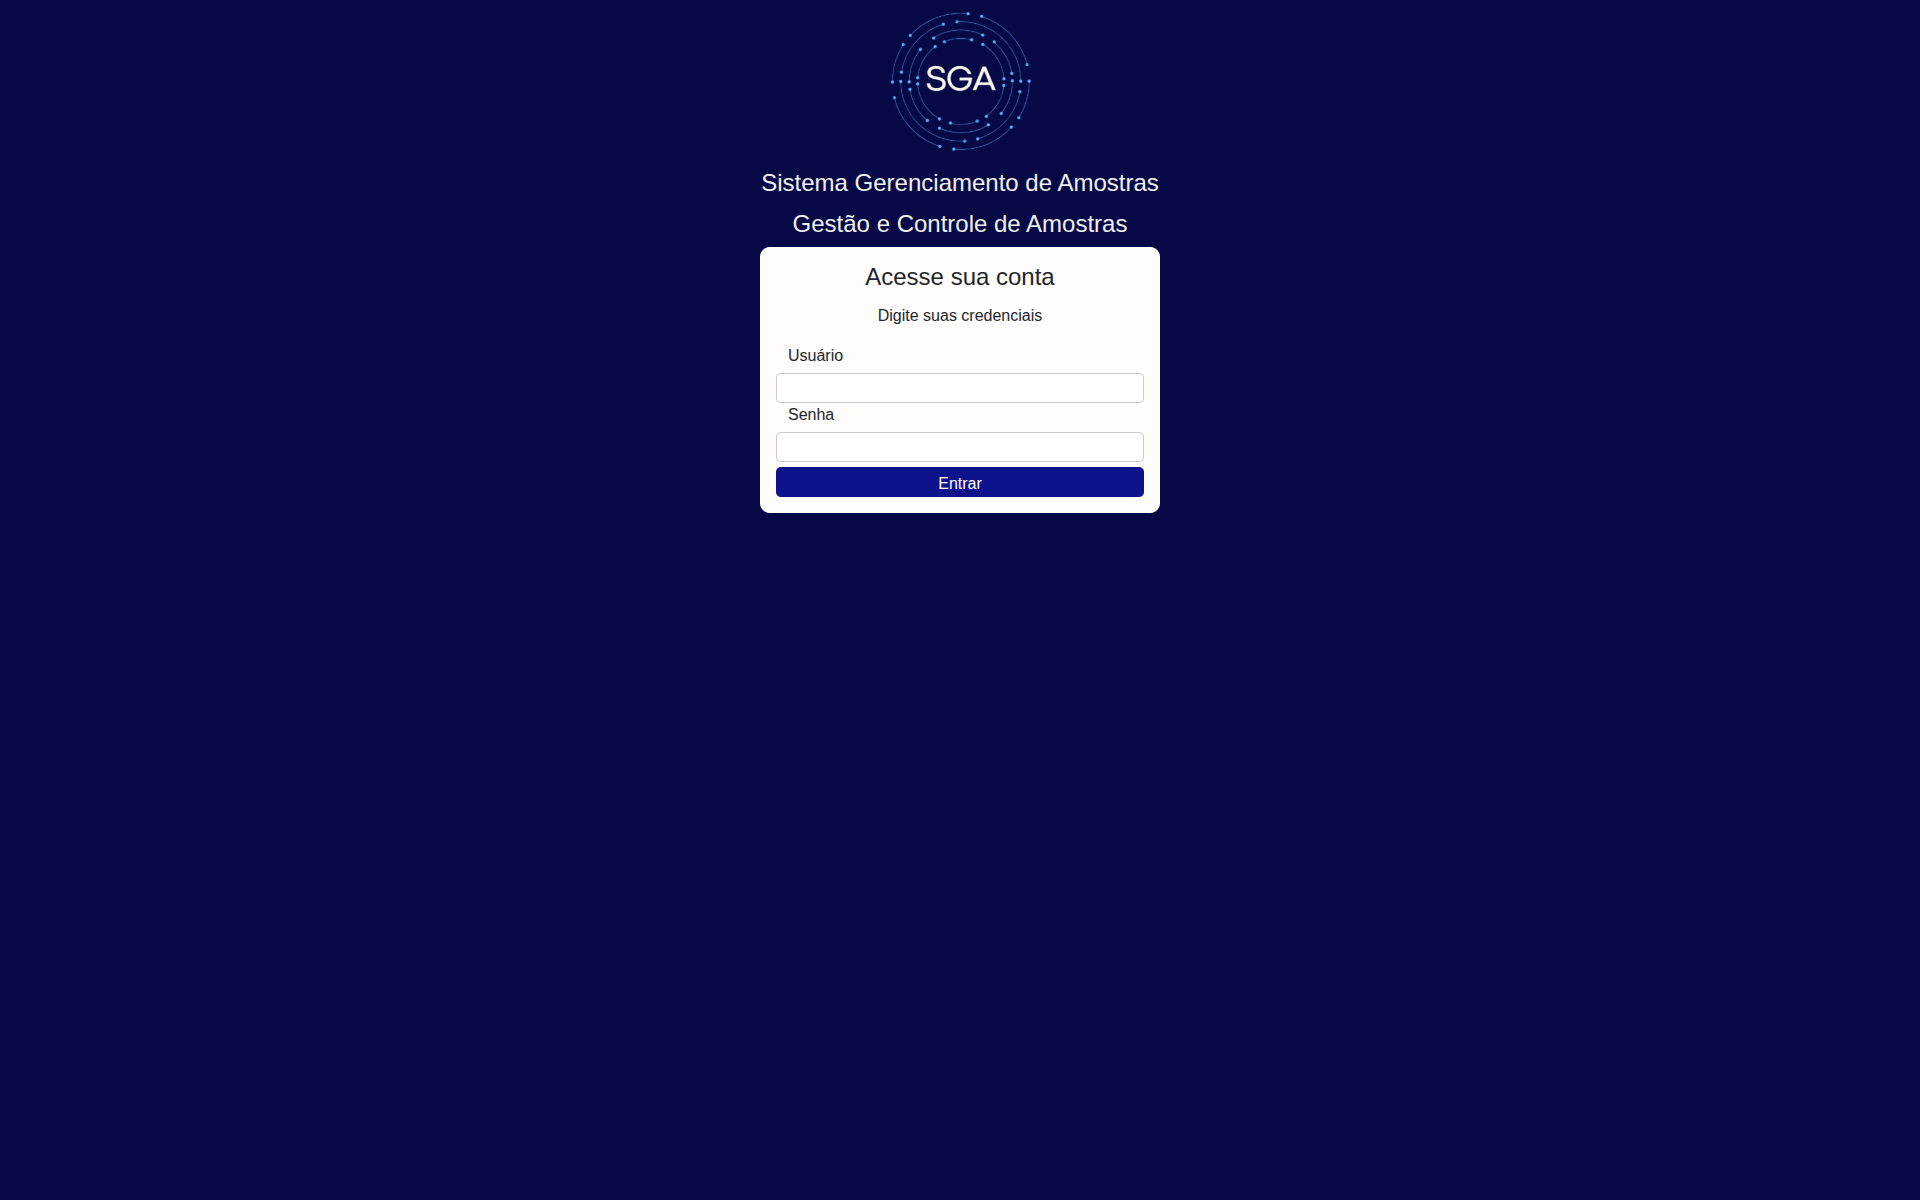
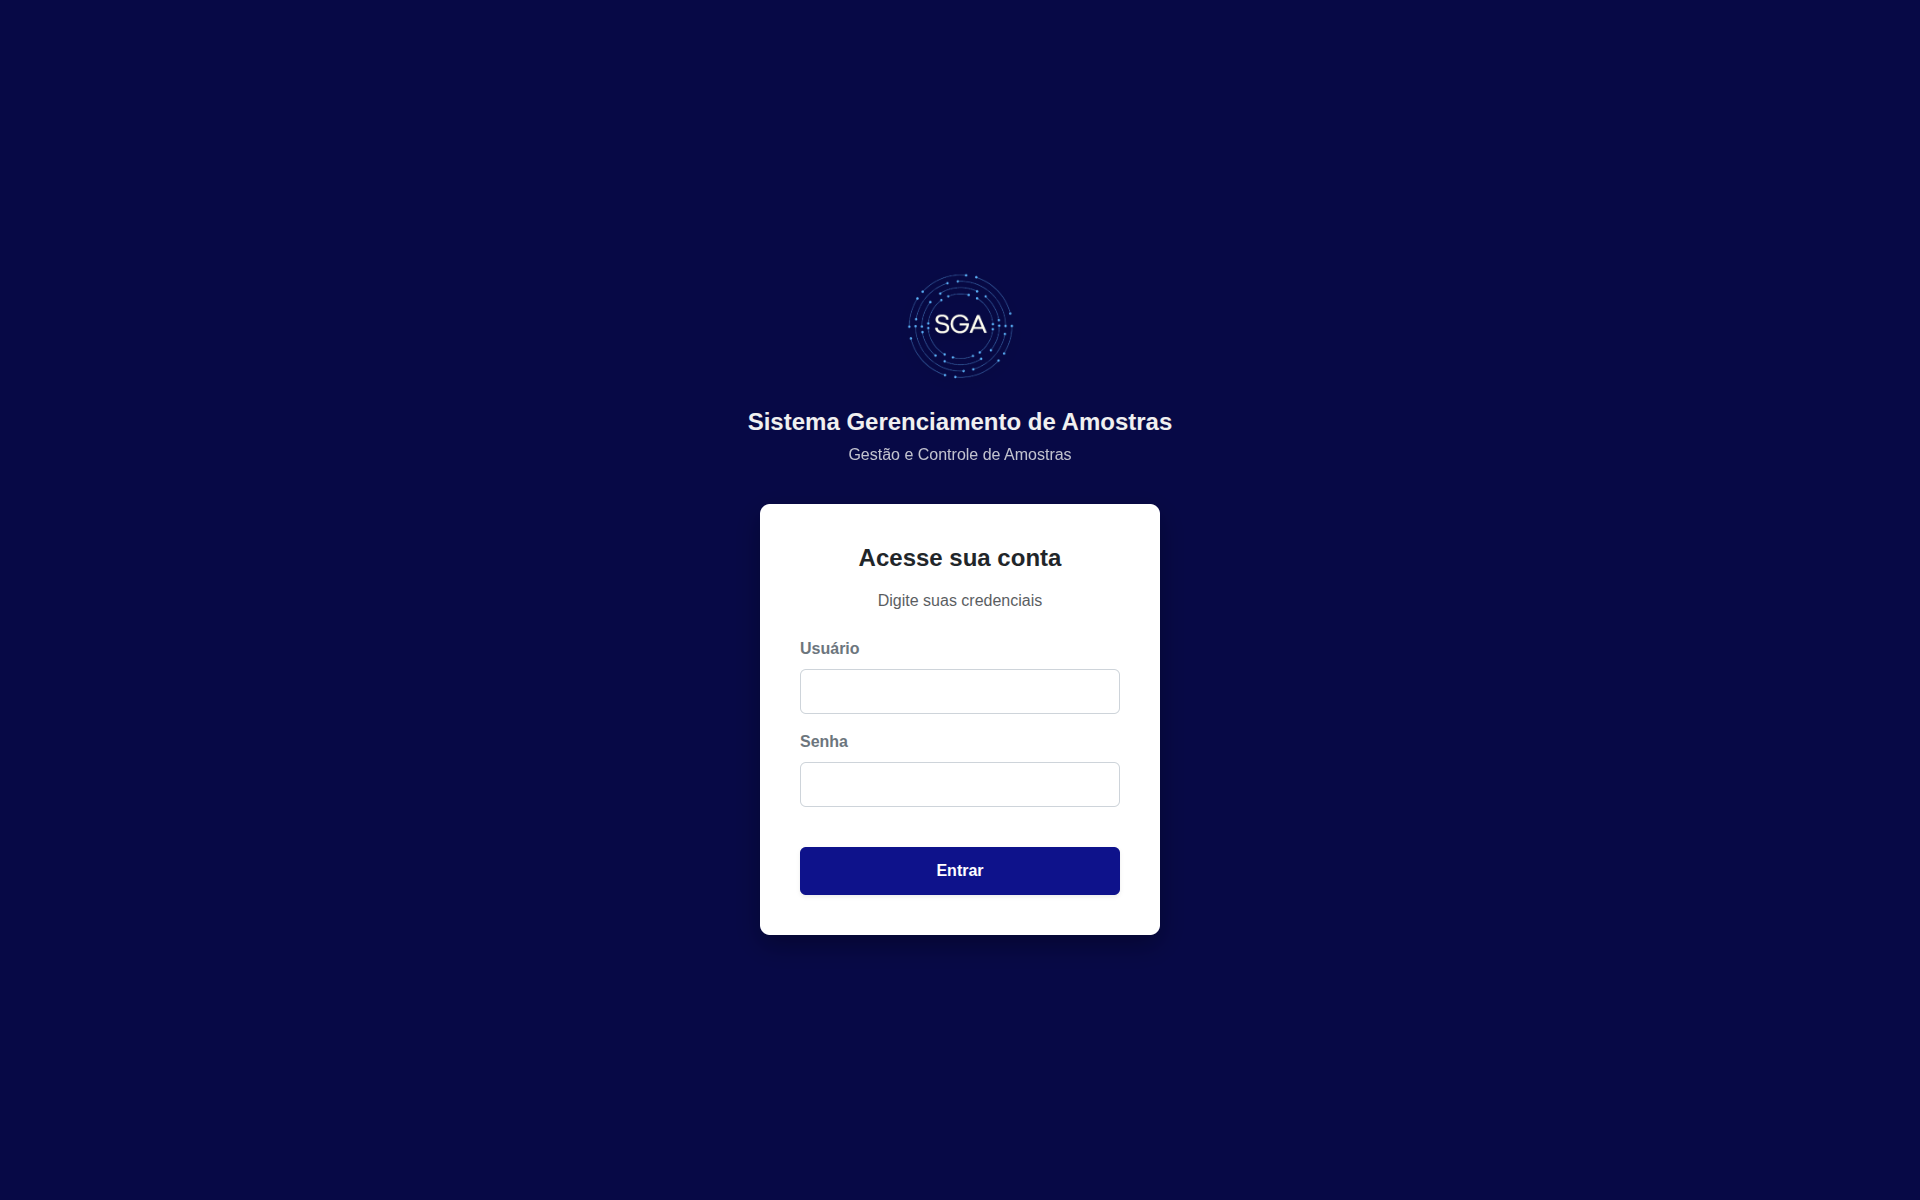
fix(accounts): Corrige layout quebrado do login e atualiza screenshot
- Adiciona classe container específica (.login-content) para isolar estilos do Bootstrap.
- Implementa centralização vertical/horizontal via Flexbox no CSS.
- Atualiza print da tela de login na documentação.

Changed region(s): [[0.375, 0.0308, 0.625, 0.8017]]

diff --git a/apps/accounts/static/accounts/css/login.css b/apps/accounts/static/accounts/css/login.css
@@ -1,106 +1,134 @@
 /* ==========================================================================
-   STYLESHEET: LOGIN
+   STYLESHEET: TELA DE LOGIN
    ==========================================================================
-   1. Layout Geral (Background & Body)
+   1. Layout Geral (Body & Background)
    2. Cabeçalho (Header & Logo)
-   3. Container de Login (Card Central)
-   4. Elementos de Formulário (Inputs & Botões)
+   3. Componente Card de Login
+   4. Formulários & Interatividade
    ========================================================================== */
 
 /* --------------------------------------------------------------------------
-   1. Layout Geral
+   1. Layout Geral (Body & Background)
    -------------------------------------------------------------------------- */
 body {
-  background-color: hsl(238, 82%, 15%); /* Azul escuro profundo */
+  background-color: hsl(238, 82%, 15%); /* Azul Profundo (Brand Color) */
   margin: 0;
   padding: 0;
   font-family: sans-serif;
+
+  /* Centralização Vertical e Horizontal */
   display: flex;
   flex-direction: column;
+  align-items: center;
+  justify-content: center;
   min-height: 100vh;
-  justify-content: center; /* Centraliza verticalmente */
 }
 
 /* --------------------------------------------------------------------------
-   2. Cabeçalho
+   2. Cabeçalho (Header & Logo)
    -------------------------------------------------------------------------- */
 header {
   text-align: center;
   color: #f0f0f0;
   margin-bottom: 2rem;
+  padding: 0 1rem;
 }
 
 header img {
-  max-width: 200px;
+  max-width: 150px;
   height: auto;
   margin-bottom: 1rem;
+  filter: drop-shadow(0 4px 6px rgba(0, 0, 0, 0.3));
 }
 
-/* --------------------------------------------------------------------------
-   3. Container de Login (Card Central)
-   -------------------------------------------------------------------------- */
-/* Seletor genérico 'div' substituído por classe específica ou mantido com cuidado */
-.login-container,
-div.login-wrapper {
-  /* Caso o HTML use div pura, considere adicionar uma classe */
-  background-color: #fffcfc;
-  border-radius: 10px;
-  width: 80%;
-  max-width: 400px;
-  height: auto;
-  text-align: center;
-  margin: 0 auto; /* Centraliza horizontalmente */
-  padding: 2em;
-  box-shadow: 0 4px 15px rgba(0, 0, 0, 0.2);
-}
-
-h1 {
+header h1 {
   font-size: 1.5rem;
-  margin-bottom: 0.5em;
-  color: #333;
+  margin-bottom: 0.5rem;
+  font-weight: 600;
 }
 
-h4 {
-  margin-top: 0.2em;
+header h4 {
   font-weight: normal;
-  color: #666;
-}
-
-.container {
-  text-align: left; /* Alinha labels e inputs à esquerda */
-  padding: 0;
+  font-size: 1rem;
+  opacity: 0.8;
 }
 
 /* --------------------------------------------------------------------------
-   4. Elementos de Formulário
+   3. Componente Card de Login
    -------------------------------------------------------------------------- */
-input {
-  width: 100%;
-  box-sizing: border-box; /* Garante que padding não estoure a largura */
-  height: 40px; /* Aumentado para melhor toque */
-  padding: 10px;
-  margin-top: 5px;
-  margin-bottom: 15px;
-  border: 1px solid #ccc;
-  border-radius: 5px;
-  font-size: 1rem;
+/* Container principal branco */
+.login-content {
+  background-color: #ffffff;
+  border-radius: 0.625rem; /* 10px */
+  width: 90%;
+  max-width: 400px;
+  padding: 2.5rem;
+  text-align: center;
+
+  /* Sombreamento para efeito de elevação */
+  box-shadow: 0 10px 25px rgba(0, 0, 0, 0.3);
+
+  /* Animação suave de entrada*/
+  animation: fadeIn 0.5s ease-out;
 }
 
-input:focus {
+@keyframes fadeIn {
+  from {
+    opacity: 0;
+    transform: translateY(20px);
+  }
+  to {
+    opacity: 1;
+    transform: translateY(0);
+  }
+}
+
+.login-content h2 {
+  font-size: 1.5rem;
+  margin-bottom: 0.5rem;
+}
+
+/* --------------------------------------------------------------------------
+   4. Formulários & Interatividade
+   -------------------------------------------------------------------------- */
+/* Inputs de Texto e Senha */
+.login-content input[type="text"],
+.login-content input[type="password"] {
+  width: 100%;
+  height: 45px;
+  padding: 10px 15px;
+  border: 1px solid #ced4da;
+  border-radius: 0.375rem; /* 6px */
+  box-sizing: border-box;
+  font-size: 1rem;
+  transition: border-color 0.2s, box-shadow 0.2s;
+}
+
+.login-content input[type="text"]:focus,
+.login-content input[type="password"]:focus {
   border-color: hsl(238, 82%, 30%);
   outline: none;
+  box-shadow: 0 0 0 0.25rem rgba(45, 52, 190, 0.25);
 }
 
-input[type="submit"] {
+/* Botão de Envio */
+.login-content input[type="submit"] {
   background-color: hsl(238, 82%, 30%);
   color: white;
   border: none;
-  font-weight: bold;
+  border-radius: 0.375rem;
   cursor: pointer;
-  transition: background-color 0.2s ease;
-  margin-top: 10px;
+  font-weight: 600;
+  font-size: 1rem;
+  padding: 12px;
+  margin-top: 1rem;
+  transition: background-color 0.2s ease, transform 0.1s;
 }
 
-input[type="submit"]:hover {
-  background-color: hsl(238, 82%, 40%);
+.login-content input[type="submit"]:hover {
+  background-color: hsl(238, 82%, 20%);
+}
+
+.login-content input[type="submit"]:active {
+  transform: scale(0.98);
 }

diff --git a/apps/accounts/templates/accounts/login.html b/apps/accounts/templates/accounts/login.html
@@ -1,44 +1,45 @@
 {% load static %}
 <!DOCTYPE html>
 <html lang="pt-br">
-<head>
-    <meta charset="UTF-8">
-    <meta name="viewport" content="width=device-width, initial-scale=1.0">
-    <title>SGA - Login</title>
-    <link href="https://cdn.jsdelivr.net/npm/bootstrap@5.3.2/dist/css/bootstrap.min.css" rel="stylesheet">
-    <link rel="stylesheet" href="{% static 'accounts/css/login.css' %}">
-</head>
-<body>
-    <header>
-        <img src="{% static 'core/img/logo.png' %}" alt="Logo - SGA">
-        <h1>Sistema Gerenciamento de Amostras</h1>
-        <h4>Gestão e Controle de Amostras</h4>
-    </header>
-    <div>
-        <form method="POST">
-            {% csrf_token %}
-
-            <h1>Acesse sua conta</h1>
-            <p> Digite suas credenciais</p>
-
-            {% if form.non_field_errors %}
-                <div style="color: red; font-size: 0.9em;">
-                    {% for error in form.non_field_errors %}
-                        <p>{{ error }}</p>
-                    {% endfor %}
+    <head>
+        <meta charset="UTF-8">
+        <meta name="viewport" content="width=device-width, initial-scale=1.0">
+        <title>SGA - Login</title>
+        <link href="https://cdn.jsdelivr.net/npm/bootstrap@5.3.2/dist/css/bootstrap.min.css"
+              rel="stylesheet">
+        <link rel="stylesheet" href="{% static 'accounts/css/login.css' %}">
+    </head>
+    <body>
+        <header>
+            <img src="{% static 'core/img/logo.png' %}" alt="Logo - SGA">
+            <h1>Sistema Gerenciamento de Amostras</h1>
+            <h4>Gestão e Controle de Amostras</h4>
+        </header>
+        <div class="login-content">
+            <form method="POST">
+                {% csrf_token %}
+                <h2 class="mb-3 fw-bold text-dark">Acesse sua conta</h2>
+                <p class="text-muted mb-4">Digite suas credenciais</p>
+                {% if form.non_field_errors %}
+                    <div class="alert alert-danger py-2 small" role="alert">
+                        {% for error in form.non_field_errors %}{{ error }}{% endfor %}
+                    </div>
+                {% endif %}
+                <div class="text-start mb-3">
+                    <label class="form-label fw-bold text-secondary"
+                           for="{{ form.username.id_for_label }}">Usuário</label>
+                    {{ form.username }}
+                    {% if form.username.errors %}<div class="text-danger small mt-1">{{ form.username.errors }}</div>{% endif %}
                 </div>
-            {% endif %}
-            
-            <label class="container" for="{{ form.username.id_for_label }}">Usuário</label>
-            {{ form.username }}
-
-            <label class="container" for="{{ form.password.id_for_label }}">Senha</label>
-            {{ form.password }}
-            
-            <input type="submit" value="Entrar">
-            
-        </form>
-    </div>
-    <script src="https://cdn.jsdelivr.net/npm/bootstrap@5.3.2/dist/js/bootstrap.bundle.min.js"></script>
-</body>
+                <div class="text-start mb-4">
+                    <label class="form-label fw-bold text-secondary"
+                           for="{{ form.password.id_for_label }}">Senha</label>
+                    {{ form.password }}
+                    {% if form.password.errors %}<div class="text-danger small mt-1">{{ form.password.errors }}</div>{% endif %}
+                </div>
+                <input type="submit" value="Entrar" class="btn w-100 shadow-sm">
+            </form>
+        </div>
+        <script src="https://cdn.jsdelivr.net/npm/bootstrap@5.3.2/dist/js/bootstrap.bundle.min.js"></script>
+    </body>
 </html>
